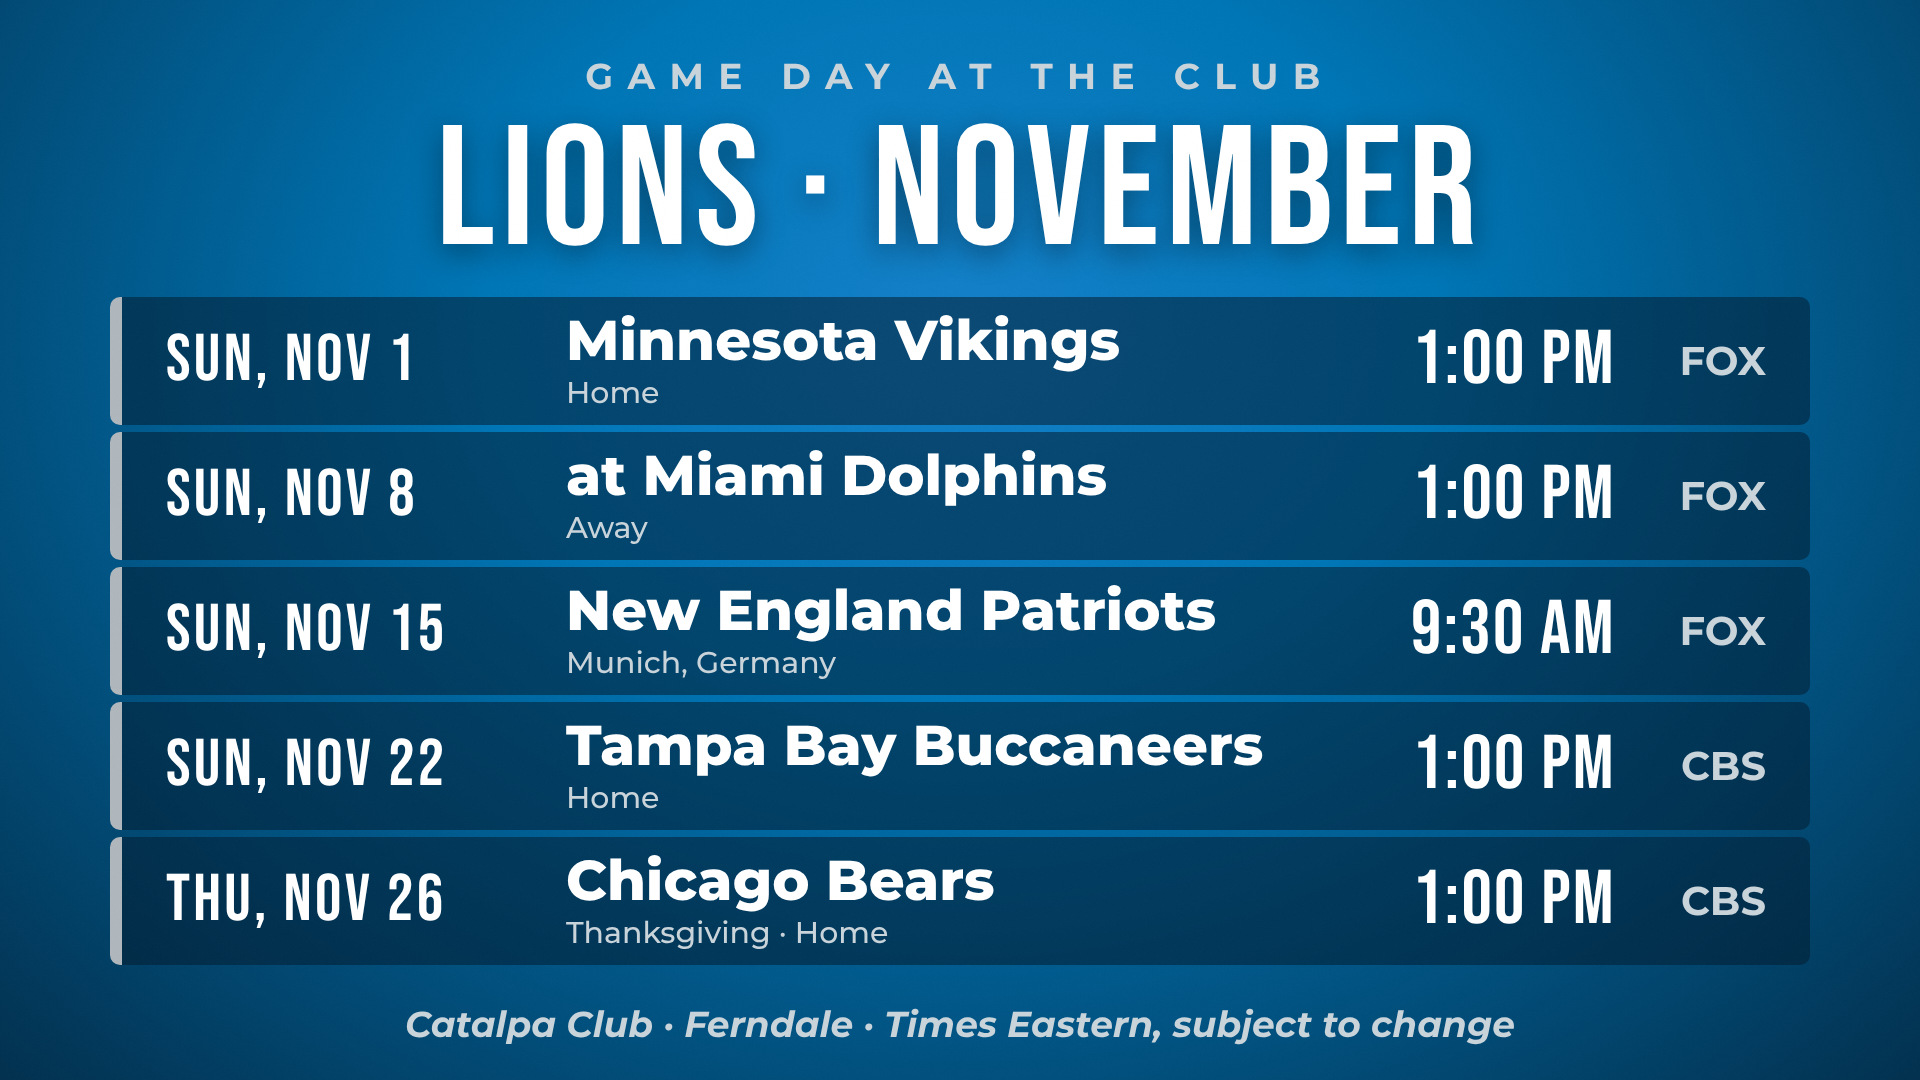
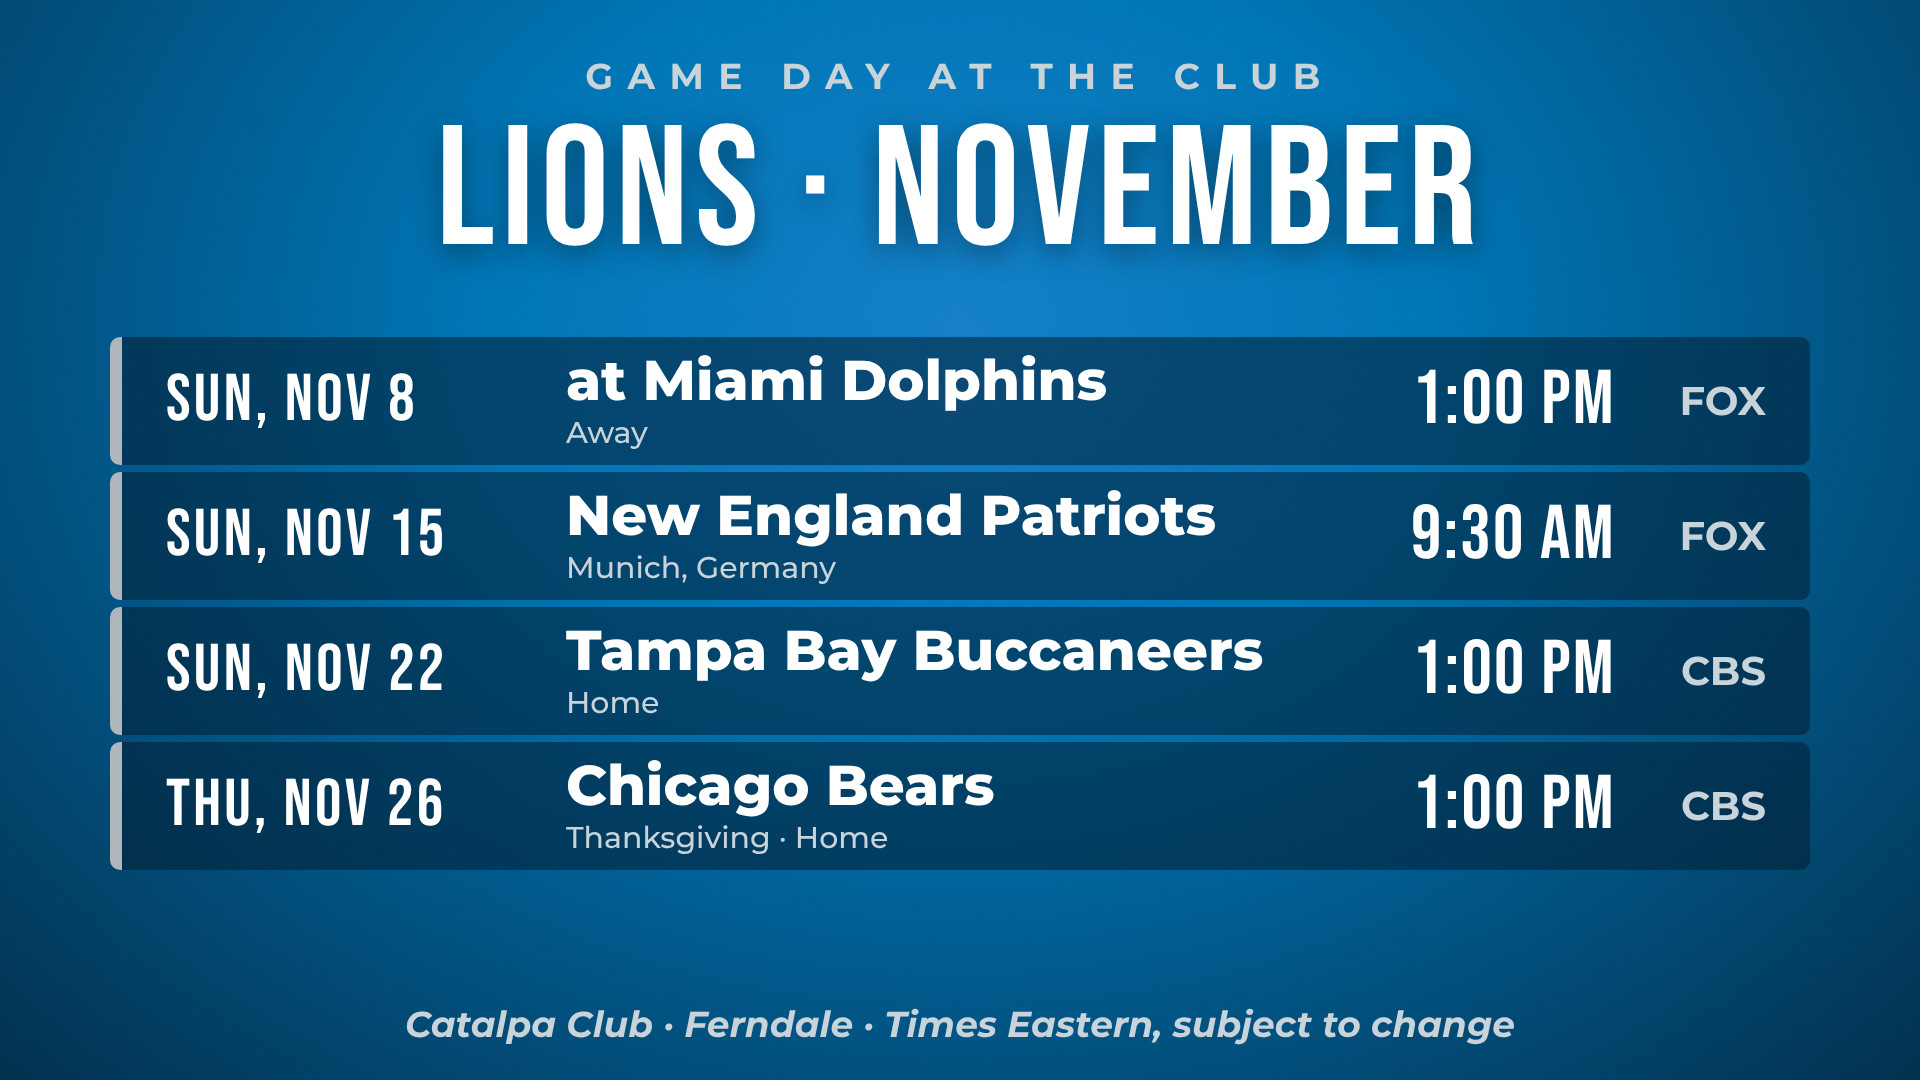
Live sports slides: Lions, Red Wings, Pistons, MSU and Michigan
New billboard slides the TV draws itself from ESPN schedule data: Detroit pro sports, Michigan college football, Michigan college basketball

Each team shows its last score and next games; a game in progress shows the live score and refreshes every minute, otherwise every 10 minutes

They rotate with the other slides, appear in Billboard images where they can be switched off, and work in both apps

The Lions November slide no longer lists the finished Nov 1 game

Changed region(s): [[0.0312, 0.275, 0.9688, 0.9167]]

diff --git a/app/src/main/java/com/wyred4fun/pokertimer/Sports.kt b/app/src/main/java/com/wyred4fun/pokertimer/Sports.kt
@@ -1,0 +1,284 @@
+package com.wyred4fun.pokertimer
+
+import android.content.Context
+import android.graphics.Bitmap
+import android.graphics.Canvas
+import android.graphics.LinearGradient
+import android.graphics.Paint
+import android.graphics.RectF
+import android.graphics.Shader
+import android.graphics.Typeface
+import org.json.JSONArray
+import org.json.JSONObject
+import java.net.HttpURLConnection
+import java.net.URL
+import java.text.SimpleDateFormat
+import java.util.Date
+import java.util.Locale
+import java.util.TimeZone
+
+/**
+ * Live sports for the billboard: schedules and scores for the Detroit and Michigan teams, from ESPN's public
+ * schedule feed. The TV fetches them in the background (every 10 minutes, every minute while a game is on),
+ * keeps the last answer so the slides still work when the internet drops, and draws the slides itself.
+ * Slide names start with "@" (for example "@sports_pro") so they sit in the same deck as the picture files.
+ */
+object Sports {
+    class Team(val key: String, val path: String, val id: String, val name: String, val short: String, val color: Int)
+
+    val TEAMS = listOf(
+        Team("lions", "football/nfl", "8", "LIONS", "Lions", 0xFF2E9BDB.toInt()),
+        Team("wings", "hockey/nhl", "5", "RED WINGS", "Wings", 0xFFE0243B.toInt()),
+        Team("pistons", "basketball/nba", "8", "PISTONS", "Pistons", 0xFF3D6BF0.toInt()),
+        Team("msufb", "football/college-football", "127", "MSU FOOTBALL", "MSU", 0xFF2BB673.toInt()),
+        Team("umfb", "football/college-football", "130", "MICHIGAN FOOTBALL", "Michigan", 0xFFFFCB05.toInt()),
+        Team("msubb", "basketball/mens-college-basketball", "127", "MSU BASKETBALL", "MSU", 0xFF2BB673.toInt()),
+        Team("umbb", "basketball/mens-college-basketball", "130", "MICHIGAN BASKETBALL", "Michigan", 0xFFFFCB05.toInt())
+    )
+
+    /** slide name -> title, team keys */
+    val GROUPS = linkedMapOf(
+        "@sports_pro" to Pair("DETROIT PRO SPORTS", listOf("lions", "wings", "pistons")),
+        "@sports_football" to Pair("MICHIGAN COLLEGE FOOTBALL", listOf("msufb", "umfb")),
+        "@sports_hoops" to Pair("MICHIGAN COLLEGE BASKETBALL", listOf("msubb", "umbb"))
+    )
+
+    val TITLES = mapOf(
+        "@sports_pro" to "Scores: Lions, Wings, Pistons",
+        "@sports_football" to "Scores: MSU & Michigan football",
+        "@sports_hoops" to "Scores: MSU & Michigan basketball"
+    )
+
+    /** One game. [us] and [them] are -1 until there is a score. [state] is ESPN's: pre, in or post. */
+    class Game(val at: Long, val home: Boolean, val opp: String, val us: Int, val them: Int, val state: String, val detail: String)
+    class Snap(val last: Game?, val live: Game?, val next: List<Game>, val count: Int = 0)
+
+    private const val PREFS = "poker_timer"
+    private const val BASE = "https://site.api.espn.com/apis/site/v2/sports/"
+
+    // ---------- reading ESPN's answer ----------
+
+    private fun scoreOf(c: JSONObject): Int {
+        val s = c.opt("score") ?: return -1
+        return when (s) {
+            is JSONObject -> s.optString("displayValue", "").toIntOrNull() ?: s.optDouble("value", -1.0).toInt()
+            is Number -> s.toInt()
+            else -> s.toString().toIntOrNull() ?: -1
+        }
+    }
+
+    /** ESPN's date ("2026-09-13T17:00Z", sometimes with seconds) in milliseconds, or -1 if it can't be read. */
+    private fun parseDate(s: String): Long {
+        for (p in listOf("yyyy-MM-dd'T'HH:mm'Z'", "yyyy-MM-dd'T'HH:mm:ss'Z'")) {
+            try { return SimpleDateFormat(p, Locale.US).apply { timeZone = TimeZone.getTimeZone("UTC") }.parse(s)!!.time } catch (e: Exception) { }
+        }
+        return -1L
+    }
+
+    private fun str(o: JSONObject?, key: String): String? = if (o == null || o.isNull(key)) null else o.optString(key, "").ifEmpty { null }
+
+    /** The team's season from ESPN's schedule answer: the last finished game, a game on right now, and the next three. */
+    fun parse(json: String, teamId: String): Snap {
+        val events = JSONObject(json).optJSONArray("events") ?: return Snap(null, null, emptyList())
+        val games = ArrayList<Game>()
+        for (i in 0 until events.length()) {
+            try {
+                val e = events.getJSONObject(i)
+                val comp = e.getJSONArray("competitions").getJSONObject(0)
+                val cs = comp.getJSONArray("competitors")
+                var us: JSONObject? = null; var them: JSONObject? = null
+                for (k in 0 until cs.length()) {
+                    val c = cs.getJSONObject(k)
+                    if (c.optJSONObject("team")?.optString("id") == teamId) us = c else them = c
+                }
+                if (us == null || them == null) continue
+                val st = (comp.optJSONObject("status") ?: e.optJSONObject("status"))?.optJSONObject("type")
+                val t = them.optJSONObject("team")
+                val opp = str(t, "shortDisplayName") ?: str(t, "displayName") ?: "?"
+                val at = parseDate(e.optString("date"))
+                val state = str(st, "state") ?: "pre"
+                val su = scoreOf(us); val sv = scoreOf(them)
+                if (at < 0) continue
+                if (state == "post" && (su < 0 || sv < 0)) continue      // postponed or canceled: not a result
+                games.add(Game(at, us.optString("homeAway") == "home", opp, su, sv, state, str(st, "shortDetail") ?: ""))
+            } catch (x: Exception) { /* skip an odd entry */ }
+        }
+        games.sortBy { it.at }
+        return Snap(games.lastOrNull { it.state == "post" }, games.firstOrNull { it.state == "in" },
+            games.filter { it.state == "pre" }.take(3), games.size)
+    }
+
+    // ---------- keeping the last answer ----------
+
+    private fun gameJson(g: Game) = JSONObject().put("a", g.at).put("h", g.home).put("o", g.opp).put("u", g.us)
+        .put("v", g.them).put("s", g.state).put("d", g.detail)
+
+    private fun gameFrom(o: JSONObject) = Game(o.getLong("a"), o.getBoolean("h"), o.getString("o"), o.getInt("u"),
+        o.getInt("v"), o.getString("s"), o.optString("d", ""))
+
+    fun toJson(s: Snap): String = JSONObject().apply {
+        s.last?.let { put("l", gameJson(it)) }
+        s.live?.let { put("v", gameJson(it)) }
+        put("n", JSONArray().apply { s.next.forEach { put(gameJson(it)) } })
+    }.toString()
+
+    fun fromJson(j: String): Snap? = try {
+        val o = JSONObject(j)
+        val n = o.optJSONArray("n")
+        Snap(o.optJSONObject("l")?.let { gameFrom(it) }, o.optJSONObject("v")?.let { gameFrom(it) },
+            (0 until (n?.length() ?: 0)).map { gameFrom(n!!.getJSONObject(it)) })
+    } catch (e: Exception) { null }
+
+    private fun prefs(ctx: Context) = ctx.getSharedPreferences(PREFS, Context.MODE_PRIVATE)
+
+    fun load(ctx: Context, key: String): Snap? = prefs(ctx).getString("sports_$key", null)?.let { fromJson(it) }
+
+    fun save(ctx: Context, key: String, s: Snap) { prefs(ctx).edit().putString("sports_$key", toJson(s)).apply() }
+
+    // ---------- fetching ----------
+
+    @Volatile private var busy = false
+
+    /** Is a game on right now (as of the last answer)? Then ask more often. */
+    private fun anyLive(ctx: Context): Boolean {
+        val now = System.currentTimeMillis()
+        return TEAMS.any { load(ctx, it.key)?.live?.let { g -> liveFresh(g, now) } == true }
+    }
+
+    /** A game still marked "live" more than 5 hours after it started is old news (the TV was offline). */
+    private fun liveFresh(g: Game, now: Long) = now - g.at < 5 * 3600_000L
+
+    /**
+     * Ask ESPN for fresh schedules if the last answer is old (10 minutes, or 1 minute while a game is on).
+     * Cheap to call as often as you like; does the work on a background thread. A failed try waits for the next interval.
+     */
+    fun refresh(ctx: Context, nowMs: Long = System.currentTimeMillis()) {
+        if (busy) return
+        val app = ctx.applicationContext
+        val p = prefs(app)
+        val every = if (anyLive(app)) 60_000L else 600_000L
+        if (nowMs - p.getLong("sports_at", 0L) < every) return
+        p.edit().putLong("sports_at", nowMs).apply()
+        busy = true
+        Thread {
+            try {
+                for (t in TEAMS) {
+                    try {
+                        val c = URL(BASE + t.path + "/teams/" + t.id + "/schedule").openConnection() as HttpURLConnection
+                        c.connectTimeout = 10_000; c.readTimeout = 15_000
+                        c.setRequestProperty("User-Agent", "PokerTimer")
+                        try {
+                            if (c.responseCode == 200) {
+                                val snap = parse(c.inputStream.bufferedReader().use { it.readText() }, t.id)
+                                if (snap.count > 0) save(app, t.key, snap)      // an empty or odd answer never wipes good data
+                            }
+                        } finally { c.disconnect() }
+                    } catch (e: Exception) { /* offline or a bad answer: keep what we have */ }
+                }
+            } finally { busy = false }
+        }.start()
+    }
+
+    // ---------- which teams get a card ----------
+
+    private const val DAY = 24L * 3600_000L
+
+    /** Teams in a slide that have something worth showing: a game on now, one coming within a month, or one finished in the last 10 days. */
+    fun cards(ctx: Context, name: String, now: Long): List<Pair<Team, Snap>> {
+        val keys = GROUPS[name]?.second ?: return emptyList()
+        return keys.mapNotNull { k ->
+            val t = TEAMS.first { it.key == k }
+            val raw = load(ctx, k) ?: return@mapNotNull null
+            // drop what has gone stale while the TV was offline
+            val s = Snap(raw.last, raw.live?.takeIf { liveFresh(it, now) }, raw.next.filter { it.at > now - 3 * 3600_000L }, raw.count)
+            val ok = s.live != null || s.next.firstOrNull()?.let { it.at - now < 30 * DAY } == true ||
+                s.last?.let { now - it.at < 10 * DAY } == true
+            if (ok) t to s else null
+        }
+    }
+
+    /** The sports slides that have anything to show right now. */
+    fun slideNames(ctx: Context, now: Long): List<String> = GROUPS.keys.filter { cards(ctx, it, now).isNotEmpty() }
+
+    // ---------- drawing ----------
+
+    private var font: Typeface? = null
+    private fun bebas(ctx: Context): Typeface = font ?: (try {
+        Typeface.createFromAsset(ctx.assets, "fonts/BebasNeue-Regular.ttf")
+    } catch (e: Exception) { Typeface.create("sans-serif-condensed", Typeface.BOLD) }).also { font = it }
+
+    private val DETROIT = TimeZone.getTimeZone("America/Detroit")
+    private fun day(ms: Long) = SimpleDateFormat("EEE MMM d", Locale.US).apply { timeZone = DETROIT }.format(Date(ms))
+    private fun time(ms: Long) = SimpleDateFormat("h:mm a", Locale.US).apply { timeZone = DETROIT }.format(Date(ms))
+
+    /** "W 31-30 vs Saints" */
+    fun lastText(g: Game): String {
+        val r = if (g.us > g.them) "W" else if (g.us < g.them) "L" else "T"
+        return "$r ${g.us}–${g.them}  ${if (g.home) "vs" else "at"} ${g.opp}"
+    }
+
+    fun nextText(g: Game): String = "${day(g.at)} · ${time(g.at)}   ${if (g.home) "vs" else "at"} ${g.opp}"
+
+    fun liveText(t: Team, g: Game): String {
+        fun sc(v: Int) = if (v < 0) "0" else v.toString()
+        return "${g.detail}   ${t.short} ${sc(g.us)}  \u2013  ${g.opp} ${sc(g.them)}"
+    }
+
+    /**
+     * Draws a sports slide on a 1920 x 1080 canvas, scaled to [w] x [h]. Null when nothing is known yet.
+     * Call from a background thread.
+     */
+    fun render(ctx: Context, name: String, w: Int, h: Int, now: Long = System.currentTimeMillis()): Bitmap? {
+        val cards = cards(ctx, name, now)
+        if (cards.isEmpty()) return null
+        val title = GROUPS[name]!!.first
+        val bmp = Bitmap.createBitmap(w, h, Bitmap.Config.ARGB_8888)
+        val cv = Canvas(bmp)
+        cv.scale(w / 1920f, h / 1080f)
+        val bg = Paint().apply { shader = LinearGradient(0f, 0f, 0f, 1080f, 0xFF0C1B33.toInt(), 0xFF04070D.toInt(), Shader.TileMode.CLAMP) }
+        cv.drawRect(0f, 0f, 1920f, 1080f, bg)
+        val bb = bebas(ctx)
+        val sans = Typeface.create("sans-serif", Typeface.BOLD)
+        fun paint(size: Float, color: Int, tf: Typeface, spacing: Float = 0f) = Paint(Paint.ANTI_ALIAS_FLAG).apply {
+            textSize = size; this.color = color; typeface = tf; letterSpacing = spacing }
+        // heading
+        cv.drawText("LIVE SCORES & SCHEDULES", 110f, 96f, paint(34f, 0xFFB8C4D6.toInt(), sans, 0.3f))
+        cv.drawText(title, 110f, 235f, paint(150f, 0xFFFFFFFF.toInt(), bb, 0.03f))
+        // team cards
+        val top = 290f; val bottom = 985f; val gap = 22f
+        val n = cards.size
+        val ch = minOf(360f, (bottom - top - gap * (n - 1)) / n)
+        val total = ch * n + gap * (n - 1)
+        var y = top + ((bottom - top) - total) / 2f
+        val lines = if (n >= 3) 2 else 3
+        for ((t, s) in cards) {
+            cv.drawRoundRect(RectF(110f, y, 1810f, y + ch), 22f, 22f, Paint(Paint.ANTI_ALIAS_FLAG).apply { color = 0x33FFFFFF })
+            cv.drawRoundRect(RectF(110f, y, 134f, y + ch), 12f, 12f, Paint(Paint.ANTI_ALIAS_FLAG).apply { color = t.color })
+            // team name, shrunk to fit
+            val np = paint(104f, 0xFFFFFFFF.toInt(), bb, 0.03f)
+            while (np.measureText(t.name) > 540f && np.textSize > 40f) np.textSize -= 4f
+            cv.drawText(t.name, 170f, y + ch / 2f + np.textSize * 0.34f, np)
+            // right side lines
+            val rows = ArrayList<Triple<String, String, Int>>()   // label, text, colour
+            if (s.live != null) rows.add(Triple("LIVE", liveText(t, s.live), 0xFFFFD24A.toInt()))
+            else s.last?.let { g ->
+                rows.add(Triple("LAST", lastText(g) + "  ·  " + day(g.at), if (g.us > g.them) 0xFF6FE08F.toInt() else if (g.us < g.them) 0xFFFF8A7A.toInt() else 0xFFFFFFFF.toInt()))
+            }
+            val left = lines - rows.size
+            s.next.take(left).forEachIndexed { i, g -> rows.add(Triple(if (i == 0) "NEXT" else "", nextText(g), 0xFFFFFFFF.toInt())) }
+            if (rows.isEmpty()) rows.add(Triple("", "No games scheduled", 0xFFB8C4D6.toInt()))
+            val step = if (n >= 3) 66f else 78f
+            var ry = y + ch / 2f - (rows.size - 1) * step / 2f + 15f
+            for ((label, text, col) in rows) {
+                cv.drawText(label, 760f, ry, paint(30f, 0xFFB8C4D6.toInt(), sans, 0.2f))
+                val tp = paint(if (n >= 3) 44f else 50f, col, sans)
+                while (tp.measureText(text) > 940f && tp.textSize > 24f) tp.textSize -= 2f
+                cv.drawText(text, 900f, ry, tp)
+                ry += step
+            }
+            y += ch + gap
+        }
+        cv.drawText("Updated ${time(now)} · data from ESPN", 110f, 1042f, paint(28f, 0xFF8FA0B8.toInt(), sans))
+        return bmp
+    }
+}

diff --git a/app/src/main/java/com/wyred4fun/pokertimer/BillboardView.kt b/app/src/main/java/com/wyred4fun/pokertimer/BillboardView.kt
@@ -46,16 +46,18 @@ class BillboardView(ctx: Context) : FrameLayout(ctx) {
         if (!running) return
         val name = pick() ?: run { main.postDelayed({ next() }, 30_000L); return }
         val my = ++serial
+        Sports.refresh(context)
         Thread {
             val bmp = try {
-                context.assets.open("slides/$name").use {
+                if (name.startsWith("@")) Sports.render(context, name, 1920, 1080)
+                else context.assets.open("slides/$name").use {
                     BitmapFactory.decodeStream(it, null, BitmapFactory.Options().apply { inPreferredConfig = Bitmap.Config.ARGB_8888 })   // full colour: 16-bit colour made dark gradients band
                 }
             } catch (e: Exception) { null }
             main.post {
                 if (my != serial || !running) return@post
                 if (bmp != null) show(bmp)
-                main.postDelayed({ next() }, Billboard.holdMs())
+                main.postDelayed({ next() }, if (bmp == null && name.startsWith("@")) 1_000L else Billboard.holdMs())
             }
         }.start()
     }
@@ -117,7 +119,8 @@ object Billboard {
 
     /** Every slide in the app, in order. */
     fun all(ctx: Context): List<String> =
-        (ctx.assets.list("slides") ?: emptyArray()).filter { it.endsWith(".jpg") }.sorted()
+        (ctx.assets.list("slides") ?: emptyArray()).filter { it.endsWith(".jpg") }.sorted() +
+            Sports.slideNames(ctx, System.currentTimeMillis())   // live sports slides, once the TV has fetched them
 
     /** The slides to show right now: not switched off by hand, and inside their dates. */
     fun current(ctx: Context, now: Long): List<String> {
@@ -151,7 +154,7 @@ object Billboard {
         "19_veterans" to "Veterans Day", "20_thanks_giving" to "Thanksgiving", "21_wifi" to "Member Wi-Fi"
     )
 
-    fun title(name: String): String = TITLES[name.removeSuffix(".jpg")] ?: name.removeSuffix(".jpg")
+    fun title(name: String): String = Sports.TITLES[name] ?: TITLES[name.removeSuffix(".jpg")] ?: name.removeSuffix(".jpg")
 
     /** What the tile says: ON / OFF, with the dates for slides that come and go by themselves. */
     fun status(ctx: Context, name: String, now: Long): String {

diff --git a/app/src/main/java/com/wyred4fun/pokertimer/SlidesActivity.kt b/app/src/main/java/com/wyred4fun/pokertimer/SlidesActivity.kt
@@ -134,7 +134,8 @@ class SlidesActivity : Activity() {
             for (t in tiles) {
                 if (gone) return@Thread
                 val bmp = try {
-                    assets.open("slides/${t.name}").use {
+                    if (t.name.startsWith("@")) Sports.render(this, t.name, 480, 270)
+                    else assets.open("slides/${t.name}").use {
                         BitmapFactory.decodeStream(it, null, BitmapFactory.Options().apply { inSampleSize = 4; inPreferredConfig = Bitmap.Config.RGB_565 })
                     }
                 } catch (e: Exception) { null }
